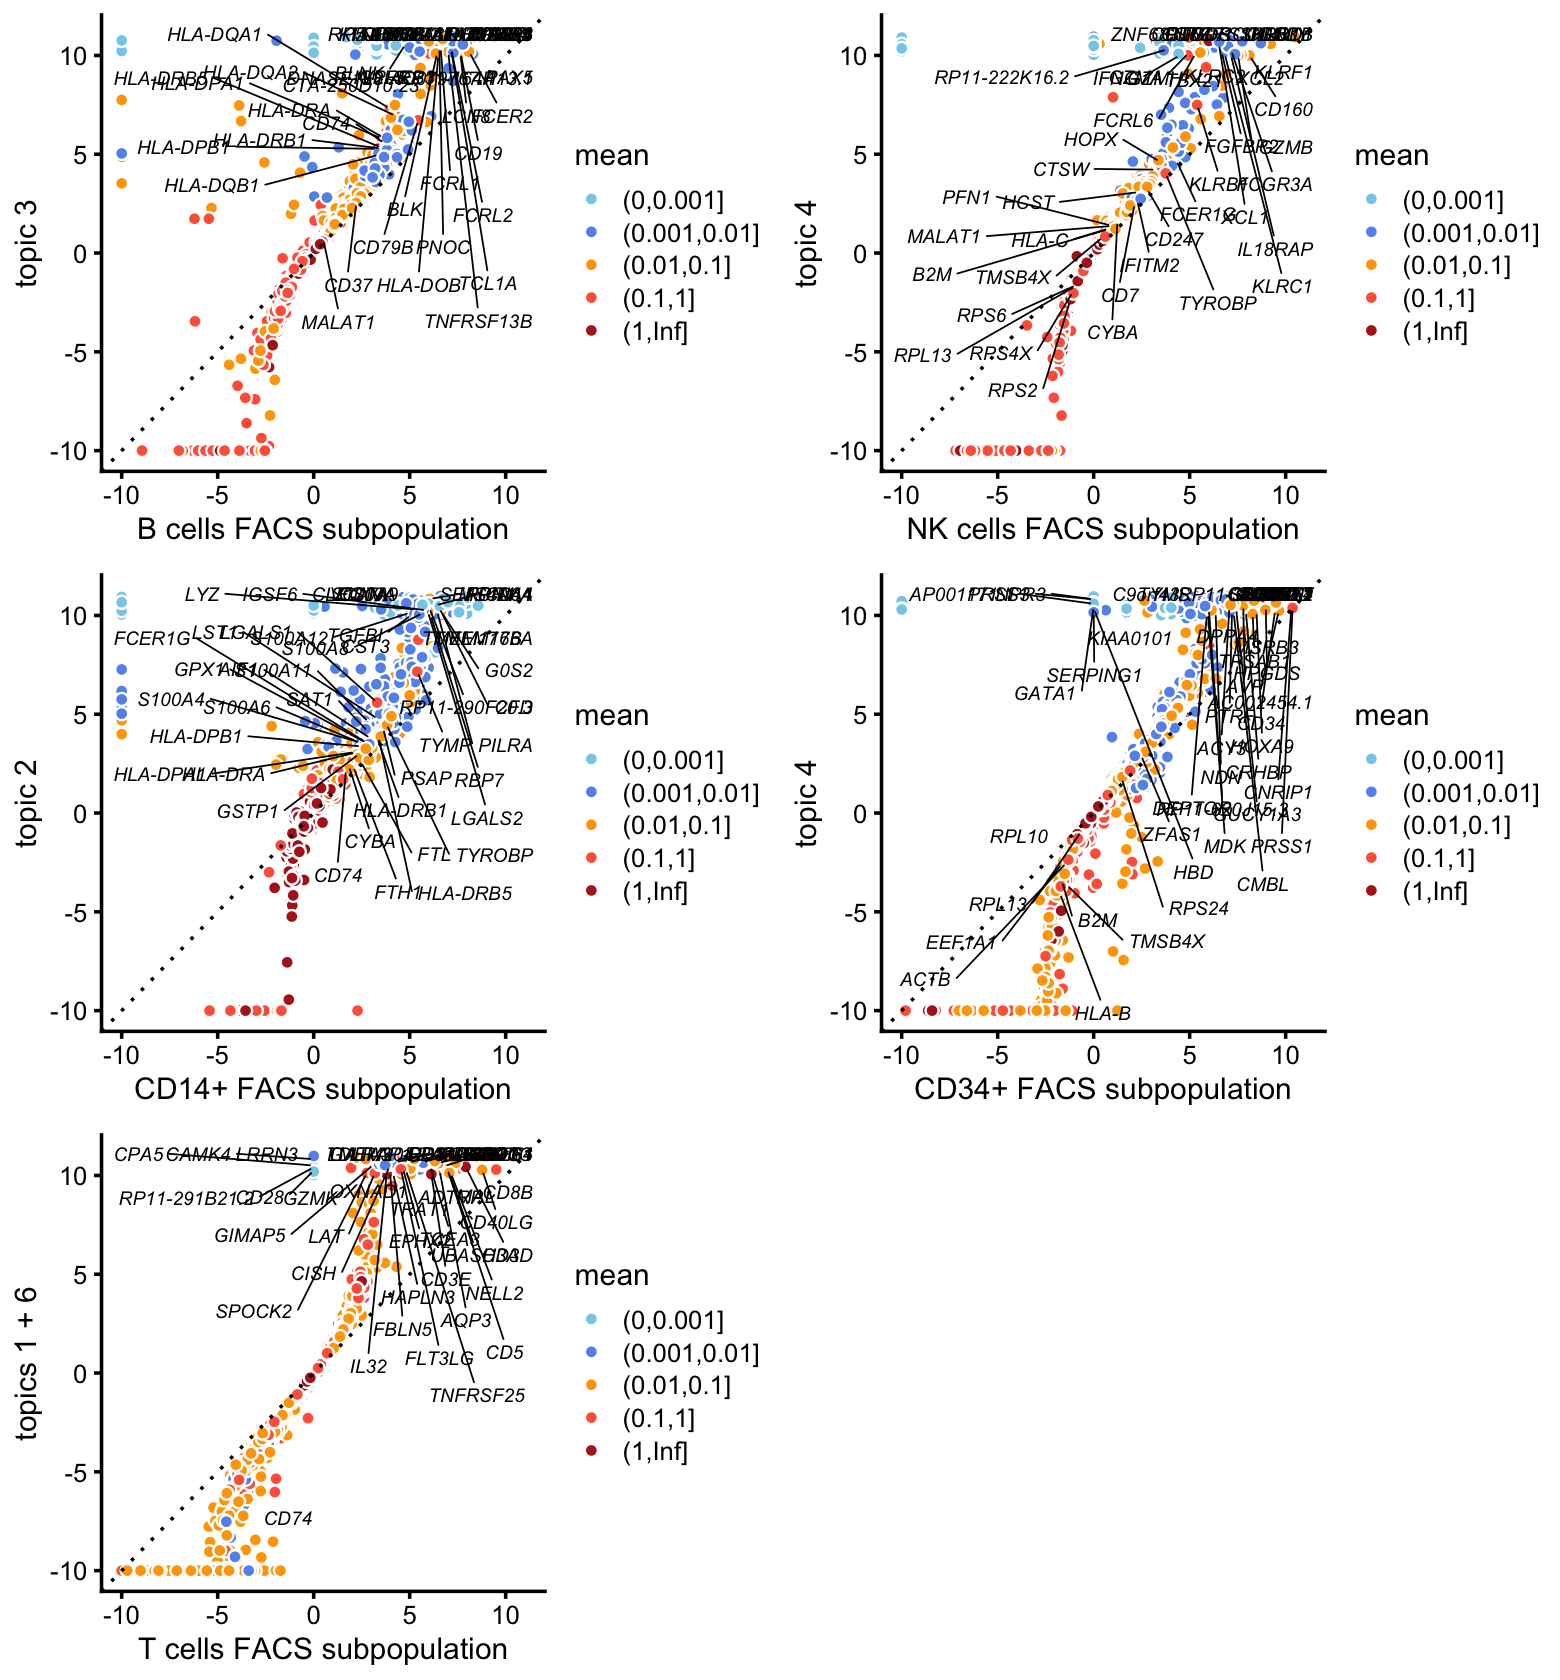
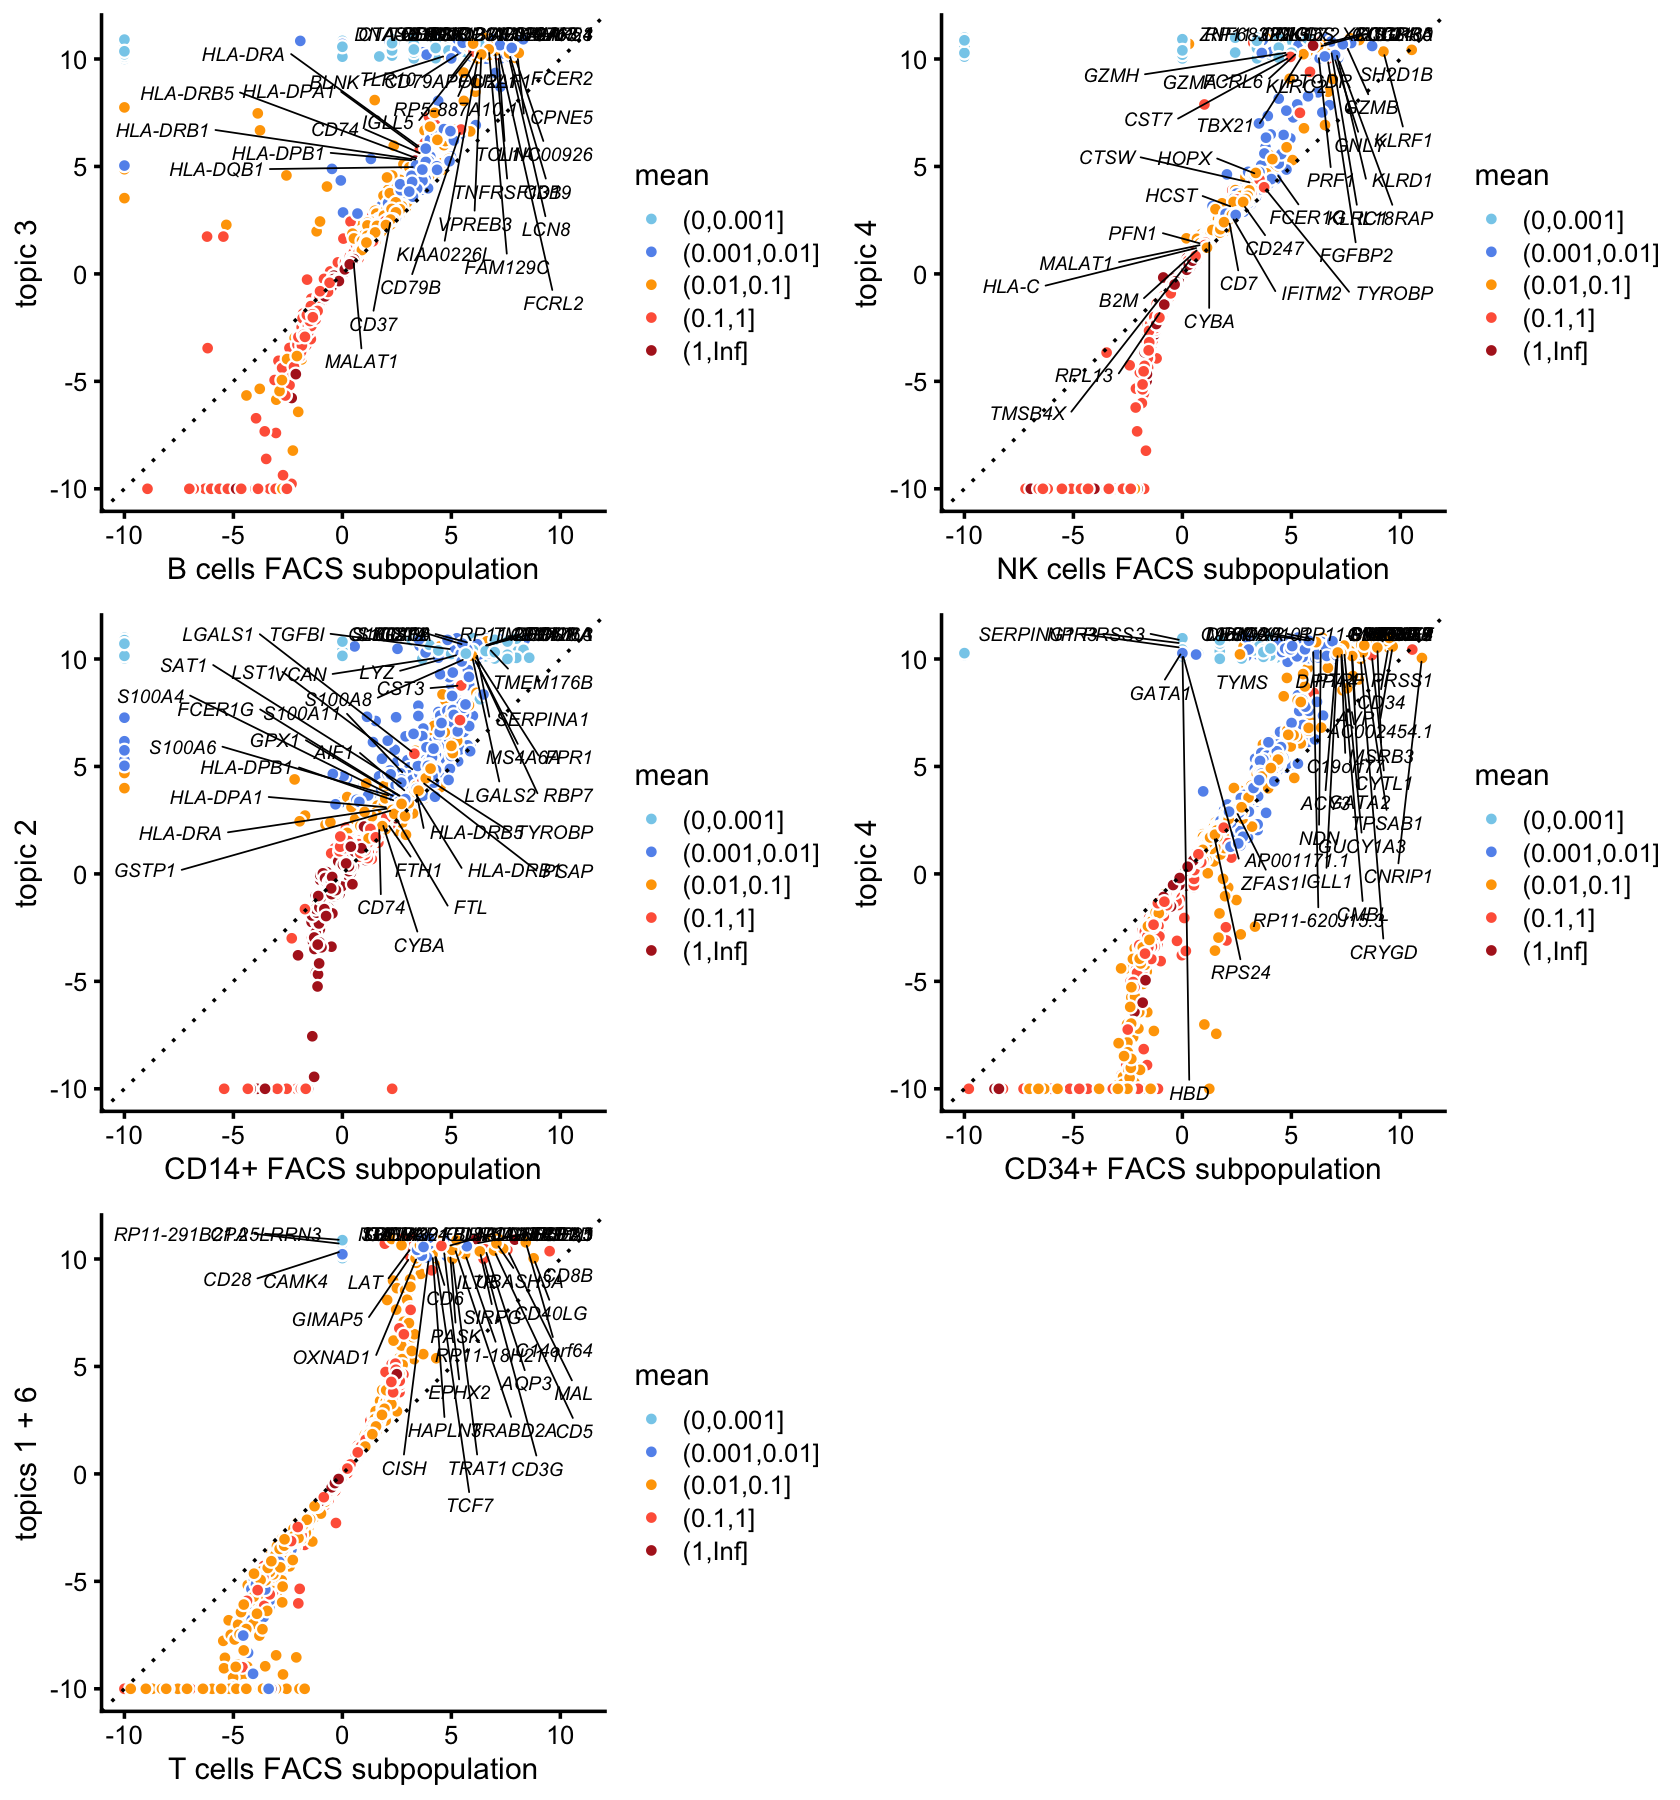
Build site.

diff --git a/docs/plots_purified_pbmc.html b/docs/plots_purified_pbmc.html
@@ -12,7 +12,7 @@
 <meta name="author" content="Peter Carbonetto" />
 
 
-<title>Annotate topics and clusters in mixture of FACS-purified PBMC data</title>
+<title>Perform differential expression analysis on topics and clusters identified in mixture of FACS-purified PBMC data</title>
 
 <script src="site_libs/jquery-1.11.3/jquery.min.js"></script>
 <meta name="viewport" content="width=device-width, initial-scale=1" />
@@ -297,7 +297,7 @@ $(document).ready(function () {
 
 
 
-<h1 class="title toc-ignore">Annotate topics and clusters in mixture of FACS-purified PBMC data</h1>
+<h1 class="title toc-ignore">Perform differential expression analysis on topics and clusters identified in mixture of FACS-purified PBMC data</h1>
 <h4 class="author">Peter Carbonetto</h4>
 
 </div>
@@ -426,22 +426,23 @@ diff-count-analysis-topics
 <div class="panel panel-default">
 <div class="panel-heading">
 <p class="panel-title">
-<a data-toggle="collapse" data-parent="#workflowr-checks" href="#strongRepositoryversionstrongahrefhttpsgithubcomstephenslabsinglecelltopicstreee16bf807a27c4d858072cea35cd6104b204063d7targetblanke16bf80a"> <span class="glyphicon glyphicon-ok text-success" aria-hidden="true"></span> <strong>Repository version:</strong> <a href="https://github.com/stephenslab/single-cell-topics/tree/e16bf807a27c4d858072cea35cd6104b204063d7" target="_blank">e16bf80</a> </a>
+<a data-toggle="collapse" data-parent="#workflowr-checks" href="#strongRepositoryversionstrongahrefhttpsgithubcomstephenslabsinglecelltopicstreeed8a595759596561c82916b2e9dbab5fea522b1dtargetblanked8a595a"> <span class="glyphicon glyphicon-ok text-success" aria-hidden="true"></span> <strong>Repository version:</strong> <a href="https://github.com/stephenslab/single-cell-topics/tree/ed8a595759596561c82916b2e9dbab5fea522b1d" target="_blank">ed8a595</a> </a>
 </p>
 </div>
[2 lines of base64/hex data omitted]
 <div class="panel-body">
 <p>
 Great! You are using Git for version control. Tracking code development and connecting the code version to the results is critical for reproducibility.
 </p>
 <p>
-The results in this page were generated with repository version <a href="https://github.com/stephenslab/single-cell-topics/tree/e16bf807a27c4d858072cea35cd6104b204063d7" target="_blank">e16bf80</a>. See the <em>Past versions</em> tab to see a history of the changes made to the R Markdown and HTML files.
+The results in this page were generated with repository version <a href="https://github.com/stephenslab/single-cell-topics/tree/ed8a595759596561c82916b2e9dbab5fea522b1d" target="_blank">ed8a595</a>. See the <em>Past versions</em> tab to see a history of the changes made to the R Markdown and HTML files.
 </p>
 <p>
 Note that you need to be careful to ensure that all relevant files for the analysis have been committed to Git prior to generating the results (you can use <code>wflow_publish</code> or <code>wflow_git_commit</code>). workflowr only checks the R Markdown file, but you know if there are other scripts or data files that it depends on. Below is the status of the Git repository when the results were generated:
 </p>
 <pre><code>
 Ignored files:
+    Ignored:    analysis/figure/
     Ignored:    data/droplet.RData
     Ignored:    data/pbmc_68k.RData
     Ignored:    data/pbmc_purified.RData
@@ -460,11 +461,14 @@ Ignored files:
 
 Untracked files:
     Untracked:  analysis/plots_purified_pbmc_cache/
+    Untracked:  analysis/volcano_plot_purified_pbmc_bcells.html
+    Untracked:  analysis/volcano_plot_purified_pbmc_nk.html
+    Untracked:  analysis/volcano_plot_purified_pbmc_nk_files/
     Untracked:  plots/
 
 Unstaged changes:
+    Modified:   analysis/index.Rmd
     Modified:   analysis/loglik_purified_pbmc.Rmd
-    Modified:   code/functions_for_plots_purified_pbmc.R
 
 </code></pre>
 <p>
@@ -503,6 +507,40 @@ Message
 </tr>
 </thead>
 <tbody>
+<tr>
+<td>
+Rmd
+</td>
+<td>
+<a href="https://github.com/stephenslab/single-cell-topics/blob/ed8a595759596561c82916b2e9dbab5fea522b1d/analysis/plots_purified_pbmc.Rmd" target="_blank">ed8a595</a>
+</td>
+<td>
+Peter Carbonetto
+</td>
+<td>
+2021-01-06
+</td>
+<td>
+workflowr::wflow_publish(“plots_purified_pbmc.Rmd”, verbose = TRUE)
+</td>
+</tr>
+<tr>
+<td>
+html
+</td>
+<td>
+<a href="https://rawcdn.githack.com/stephenslab/single-cell-topics/04113408c52e484a058dfa1525a28dfb9f86d646/docs/plots_purified_pbmc.html" target="_blank">0411340</a>
+</td>
+<td>
+Peter Carbonetto
+</td>
+<td>
+2021-01-06
+</td>
+<td>
+Added scatterplots to plots_purified_pbmc analysis.
+</td>
+</tr>
 <tr>
 <td>
 Rmd
@@ -629,7 +667,7 @@ Working on volcano plots in plots_purified_pbmc analysis.
 </div>
 </div>
 </div>
-<p><em>Add text here.</em></p>
+<p>Here we perform a differential expression analysis using the topic model fit to the mixture of FACS-purified data, as well as the clusters identified from this topic model.</p>
 <p>Load the packages used in the analysis below, as well as additional functions that we will use to generate some of the plots.</p>
 <pre class="r"><code>library(Matrix)
 library(fastTopics)
@@ -643,12 +681,7 @@ fit &lt;- readRDS(file.path(&quot;../output/pbmc-purified/rds&quot;,
                          &quot;fit-pbmc-purified-scd-ex-k=6.rds&quot;))$fit
 fit &lt;- poisson2multinom(fit)
 samples &lt;- readRDS(&quot;../output/pbmc-purified/clustering-pbmc-purified.rds&quot;)</code></pre>
-<p><em>Code used temporarily for testing:</em></p>
-<pre class="r"><code>rows &lt;- sample(1:94655,9000)
-counts &lt;- counts[rows,]
-samples &lt;- samples[rows,]
-fit &lt;- select_loadings(fit,loadings = rows)</code></pre>
-<p>Perform differential expression analysis using the FACS labeling.</p>
+<p>Perform differential expression analysis using the FACS labeling:</p>
 <pre class="r"><code>celltype &lt;- as.character(samples$celltype)
 celltype[celltype == &quot;CD4+/CD45RA+/CD25- Naive T&quot; |
          celltype == &quot;CD8+ Cytotoxic T&quot; |
@@ -669,7 +702,7 @@ cat(sprintf(&quot;Computation took %0.2f seconds.\n&quot;,timing[&quot;elapsed&q
 >knitr cache options</a> for more details.
 </p>
 </div>
-<p>Perform differential expression analysis using the clusters.</p>
+<p>Perform differential expression analysis using the clusters:</p>
 <pre class="r"><code>timing &lt;- system.time(
   diff_count_clusters &lt;- diff_count_clusters(samples$cluster,counts))
 cat(sprintf(&quot;Computation took %0.2f seconds.\n&quot;,timing[&quot;elapsed&quot;]))
@@ -682,7 +715,7 @@ cat(sprintf(&quot;Computation took %0.2f seconds.\n&quot;,timing[&quot;elapsed&q
 >knitr cache options</a> for more details.
 </p>
 </div>
-<p>Perform differential expression analysis using the multinomial topic model, after removing the dendritic cells cluster, and after merging the two T-cell topics.</p>
+<p>Perform differential expression analysis using the multinomial topic model, after removing the dendritic cells cluster, and after merging the two T-cell topics:</p>
 <pre class="r"><code>rows &lt;- which(samples$cluster != &quot;dendritic&quot;)
 fit_merged &lt;- select_loadings(fit,loadings = rows)
 fit_merged &lt;- merge_topics(fit,c(1,6))
@@ -698,7 +731,7 @@ cat(sprintf(&quot;Computation took %0.2f seconds.\n&quot;,timing[&quot;elapsed&q
 >knitr cache options</a> for more details.
 </p>
 </div>
-<p>Perform differential expression analysis on the T cells only.</p>
+<p>Perform differential expression analysis on the T cells only:</p>
 <pre class="r"><code>rows &lt;- which(samples$cluster == &quot;T&quot;)
 fit_t &lt;- select_loadings(fit,loadings = rows)
 timing &lt;- system.time(
@@ -706,8 +739,8 @@ timing &lt;- system.time(
 cat(sprintf(&quot;Computation took %0.2f seconds.\n&quot;,timing[&quot;elapsed&quot;]))
 # Fitting 21952 x 6 = 131712 univariate Poisson models.
 # Computing log-fold change statistics.
-# Computation took 7.02 seconds.</code></pre>
-<p><em>Add text here.</em></p>
+# Computation took 100.58 seconds.</code></pre>
+<p>Having completed the differential expression calculations, as an example, we visualize the differential expression results for topic 3 (“B cells”) using a volcano plot:</p>
 <pre class="r"><code>p1 &lt;- volcano_plot_better(diff_count_topics,&quot;k3&quot;,genes$symbol,0.998,
                           &quot;topic 3 (B cells)&quot;,show_legend = TRUE)
 print(p1)</code></pre>
@@ -736,6 +769,17 @@ Date
 <tbody>
 <tr>
 <td>
+<a href="https://github.com/stephenslab/single-cell-topics/blob/04113408c52e484a058dfa1525a28dfb9f86d646/docs/figure/plots_purified_pbmc.Rmd/volcano-plots-1-1.png" target="_blank">0411340</a>
+</td>
+<td>
+Peter Carbonetto
+</td>
+<td>
+2021-01-06
+</td>
+</tr>
+<tr>
+<td>
 <a href="https://github.com/stephenslab/single-cell-topics/blob/fad8e3d9888206e882551f96333364e6203b6599/docs/figure/plots_purified_pbmc.Rmd/volcano-plots-1-1.png" target="_blank">fad8e3d</a>
 </td>
 <td>
@@ -749,7 +793,7 @@ Peter Carbonetto
 </table>
 </div>
 </div>
-<p><em>Add text here.</em></p>
+<p>Here are more volcano plots:</p>
 <pre class="r"><code>p2 &lt;- volcano_plot_better(diff_count_topics,&quot;k3&quot;,genes$symbol,0.998,
                           &quot;topic 3 (B cells)&quot;)
 p3 &lt;- volcano_plot_better(diff_count_topics,&quot;k4&quot;,genes$symbol,0.998,
@@ -792,6 +836,17 @@ Date
 <tbody>
 <tr>
 <td>
+<a href="https://github.com/stephenslab/single-cell-topics/blob/04113408c52e484a058dfa1525a28dfb9f86d646/docs/figure/plots_purified_pbmc.Rmd/volcano-plots-2-1.png" target="_blank">0411340</a>
+</td>
+<td>
+Peter Carbonetto
+</td>
+<td>
+2021-01-06
+</td>
+</tr>
+<tr>
+<td>
 <a href="https://github.com/stephenslab/single-cell-topics/blob/fad8e3d9888206e882551f96333364e6203b6599/docs/figure/plots_purified_pbmc.Rmd/volcano-plots-2-1.png" target="_blank">fad8e3d</a>
 </td>
 <td>
@@ -805,7 +860,37 @@ Peter Carbonetto
 </table>
 </div>
 </div>
-<p><em>Add text here.</em></p>
+<p>The results of the differential expression analyses can also be browsed in interactive volcano plots:</p>
+<pre class="r"><code>volcano_plotly(diff_count_topics,&quot;k3&quot;,&quot;volcano_plot_purified_pbmc_bcells.html&quot;,
+               genes$symbol,title = &quot;topic 3 (B cells)&quot;)
+volcano_plotly(diff_count_topics,&quot;k4&quot;,&quot;volcano_plot_purified_pbmc_nk.html&quot;,
+               genes$symbol,title = &quot;topic 4 (NK cells)&quot;)
+volcano_plotly(diff_count_topics,&quot;k2&quot;,&quot;volcano_plot_purified_pbmc_cd14.html&quot;,
+               genes$symbol,title = &quot;topic 2 (CD14+)&quot;)
+volcano_plotly(diff_count_topics,&quot;k5&quot;,&quot;volcano_plot_purified_pbmc_cd34.html&quot;,
+               genes$symbol,title = &quot;topic 5 (CD34+)&quot;)
+volcano_plotly(diff_count_topics,&quot;k1+k6&quot;,
+               &quot;volcano_plot_purified_pbmc_tcells.html&quot;,genes$symbol,
+               title = &quot;topics 1 + 6 (T cells)&quot;)
+volcano_plotly(diff_count_t,&quot;k1&quot;,&quot;volcano_plot_purified_pbmc_cd4cd8.html&quot;,
+               genes$symbol,title = &quot;topic 1 (CD4+/CD8+)&quot;)
+volcano_plotly(diff_count_clusters,&quot;CD8+&quot;,
+               &quot;volcano_plot_purified_pbmc_cd8.html&quot;,genes$symbol,
+               title = &quot;CD8+ cluster&quot;)
+volcano_plotly(diff_count_clusters,&quot;dendritic&quot;,
+               &quot;volcano_plot_purified_pbmc_dendritic.html&quot;,genes$symbol,
+               title = &quot;dendritic cells cluster&quot;)</code></pre>
+<p>The interactive volcano plots can also be viewed by clicking on these links:</p>
+<ul>
+<li><p><a href="volcano_plot_purified_pbmc_bcells.html">topic 3 (B cells)</a></p></li>
+<li><p><a href="volcano_plot_purified_pbmc_nk.html">topic 4 (NK cells)</a></p></li>
+<li><p><a href="volcano_plot_purified_pbmc_cd14.html">topic 2 (CD14+)</a></p></li>
+<li><p><a href="volcano_plot_purified_pbmc_cd34.html">topic 5 (CD34+)</a></p></li>
+<li><p><a href="volcano_plot_purified_pbmc_tcells.html">topics 1 and 6 (T cells)</a></p></li>
+<li><p><a href="volcano_plot_purified_pbmc_cd4cd8.html">topic 1 (CD4+/CD8+ lineage differentiation)</a></p></li>
+<li><p><a href="volcano_plot_purified_pbmc_cd8.html">CD8+ cluster</a></p></li>
+<li><p><a href="volcano_plot_purified_pbmc_dendritic.html">dendritic cells cluster</a></p></li>
+</ul>
 <pre class="r"><code>p10 &lt;- lfc_scatterplot(diff_count_facs,diff_count_topics,&quot;CD19+ B&quot;,&quot;k3&quot;,
                        genes$symbol,label_above_quantile = 0.998,
                        xlab = &quot;B cells FACS subpopulation&quot;,ylab = &quot;topic 3&quot;)
@@ -823,12 +908,44 @@ p14 &lt;- lfc_scatterplot(diff_count_facs,diff_count_topics,&quot;T cell&quot;,&
                        xlab = &quot;T cells FACS subpopulation&quot;,
                        ylab = &quot;topics 1 + 6&quot;)
 plot_grid(p10,p11,p12,p13,p14,nrow = 3,ncol = 2)</code></pre>
-<p><img src="figure/plots_purified_pbmc.Rmd/topics-vs-facs-scatterplots-1.png" width="780" style="display: block; margin: auto;" /></p>
-<p>TO DO:</p>
-<ul>
-<li><p>Save images to files.</p></li>
-<li><p>Create interactive volcano plots.</p></li>
-</ul>
+<p><img src="figure/plots_purified_pbmc.Rmd/topics-vs-facs-scatterplots-1.png" width="840" style="display: block; margin: auto;" /></p>
+<p>
+<button type="button" class="btn btn-default btn-xs btn-workflowr btn-workflowr-fig" data-toggle="collapse" data-target="#fig-topics-vs-facs-scatterplots-1">
+Past versions of topics-vs-facs-scatterplots-1.png
+</button>
+</p>
+<div id="fig-topics-vs-facs-scatterplots-1" class="collapse">
+<div class="table-responsive">
+<table class="table table-condensed table-hover">
+<thead>
+<tr>
+<th>
+Version
+</th>
+<th>
+Author
+</th>
+<th>
+Date
+</th>
+</tr>
+</thead>
+<tbody>
+<tr>
+<td>
+<a href="https://github.com/stephenslab/single-cell-topics/blob/04113408c52e484a058dfa1525a28dfb9f86d646/docs/figure/plots_purified_pbmc.Rmd/topics-vs-facs-scatterplots-1.png" target="_blank">0411340</a>
+</td>
+<td>
+Peter Carbonetto
+</td>
+<td>
+2021-01-06
+</td>
+</tr>
+</tbody>
+</table>
+</div>
+</div>
 <br>
 <p>
 <button type="button" class="btn btn-default btn-workflowr btn-workflowr-sessioninfo" data-toggle="collapse" data-target="#workflowr-sessioninfo" style="display: block;">
@@ -858,27 +975,28 @@ plot_grid(p10,p11,p12,p13,p14,nrow = 3,ncol = 2)</code></pre>
 # loaded via a namespace (and not attached):
 #  [1] Rcpp_1.0.5           lattice_0.20-38      tidyr_1.0.0         
 #  [4] prettyunits_1.1.1    assertthat_0.2.1     zeallot_0.1.0       
-#  [7] rprojroot_1.3-2      digest_0.6.23        R6_2.4.1            
-# [10] backports_1.1.5      MatrixModels_0.4-1   evaluate_0.14       
-# [13] coda_0.19-3          httr_1.4.2           pillar_1.4.3        
-# [16] rlang_0.4.5          progress_1.2.2       lazyeval_0.2.2      
-# [19] data.table_1.12.8    irlba_2.3.3          SparseM_1.78        
-# [22] whisker_0.4          rmarkdown_2.3        labeling_0.3        
-# [25] Rtsne_0.15           stringr_1.4.0        htmlwidgets_1.5.1   
-# [28] munsell_0.5.0        compiler_3.6.2       httpuv_1.5.2        
-# [31] xfun_0.11            pkgconfig_2.0.3      mcmc_0.9-6          
-# [34] htmltools_0.4.0      tidyselect_0.2.5     tibble_2.1.3        
-# [37] workflowr_1.6.2.9000 quadprog_1.5-8       viridisLite_0.3.0   
-# [40] crayon_1.3.4         dplyr_0.8.3          withr_2.1.2         
-# [43] later_1.0.0          MASS_7.3-51.4        grid_3.6.2          
-# [46] jsonlite_1.6         gtable_0.3.0         lifecycle_0.1.0     
-# [49] git2r_0.26.1         magrittr_1.5         scales_1.1.0        
-# [52] RcppParallel_4.4.2   stringi_1.4.3        farver_2.0.1        
-# [55] fs_1.3.1             promises_1.1.0       vctrs_0.2.1         
-# [58] tools_3.6.2          glue_1.3.1           purrr_0.3.3         
-# [61] hms_0.5.2            yaml_2.2.0           colorspace_1.4-1    
-# [64] plotly_4.9.2         knitr_1.26           quantreg_5.54       
-# [67] MCMCpack_1.4-5</code></pre>
+#  [7] rprojroot_1.3-2      digest_0.6.23        mime_0.8            
+# [10] R6_2.4.1             backports_1.1.5      MatrixModels_0.4-1  
+# [13] evaluate_0.14        coda_0.19-3          httr_1.4.2          
+# [16] pillar_1.4.3         rlang_0.4.5          progress_1.2.2      
+# [19] lazyeval_0.2.2       data.table_1.12.8    irlba_2.3.3         
+# [22] SparseM_1.78         whisker_0.4          rmarkdown_2.3       
+# [25] labeling_0.3         Rtsne_0.15           stringr_1.4.0       
+# [28] htmlwidgets_1.5.1    munsell_0.5.0        shiny_1.4.0         
+# [31] compiler_3.6.2       httpuv_1.5.2         xfun_0.11           
+# [34] pkgconfig_2.0.3      mcmc_0.9-6           htmltools_0.4.0     
+# [37] tidyselect_0.2.5     tibble_2.1.3         workflowr_1.6.2.9000
+# [40] quadprog_1.5-8       viridisLite_0.3.0    crayon_1.3.4        
+# [43] dplyr_0.8.3          withr_2.1.2          later_1.0.0         
+# [46] MASS_7.3-51.4        grid_3.6.2           xtable_1.8-4        
+# [49] jsonlite_1.6         gtable_0.3.0         lifecycle_0.1.0     
+# [52] git2r_0.26.1         magrittr_1.5         scales_1.1.0        
+# [55] RcppParallel_4.4.2   stringi_1.4.3        farver_2.0.1        
+# [58] fs_1.3.1             promises_1.1.0       vctrs_0.2.1         
+# [61] tools_3.6.2          glue_1.3.1           purrr_0.3.3         
+# [64] crosstalk_1.0.0      hms_0.5.2            fastmap_1.0.1       
+# [67] yaml_2.2.0           colorspace_1.4-1     plotly_4.9.2        
+# [70] knitr_1.26           quantreg_5.54        MCMCpack_1.4-5</code></pre>
 </div>
 
 
